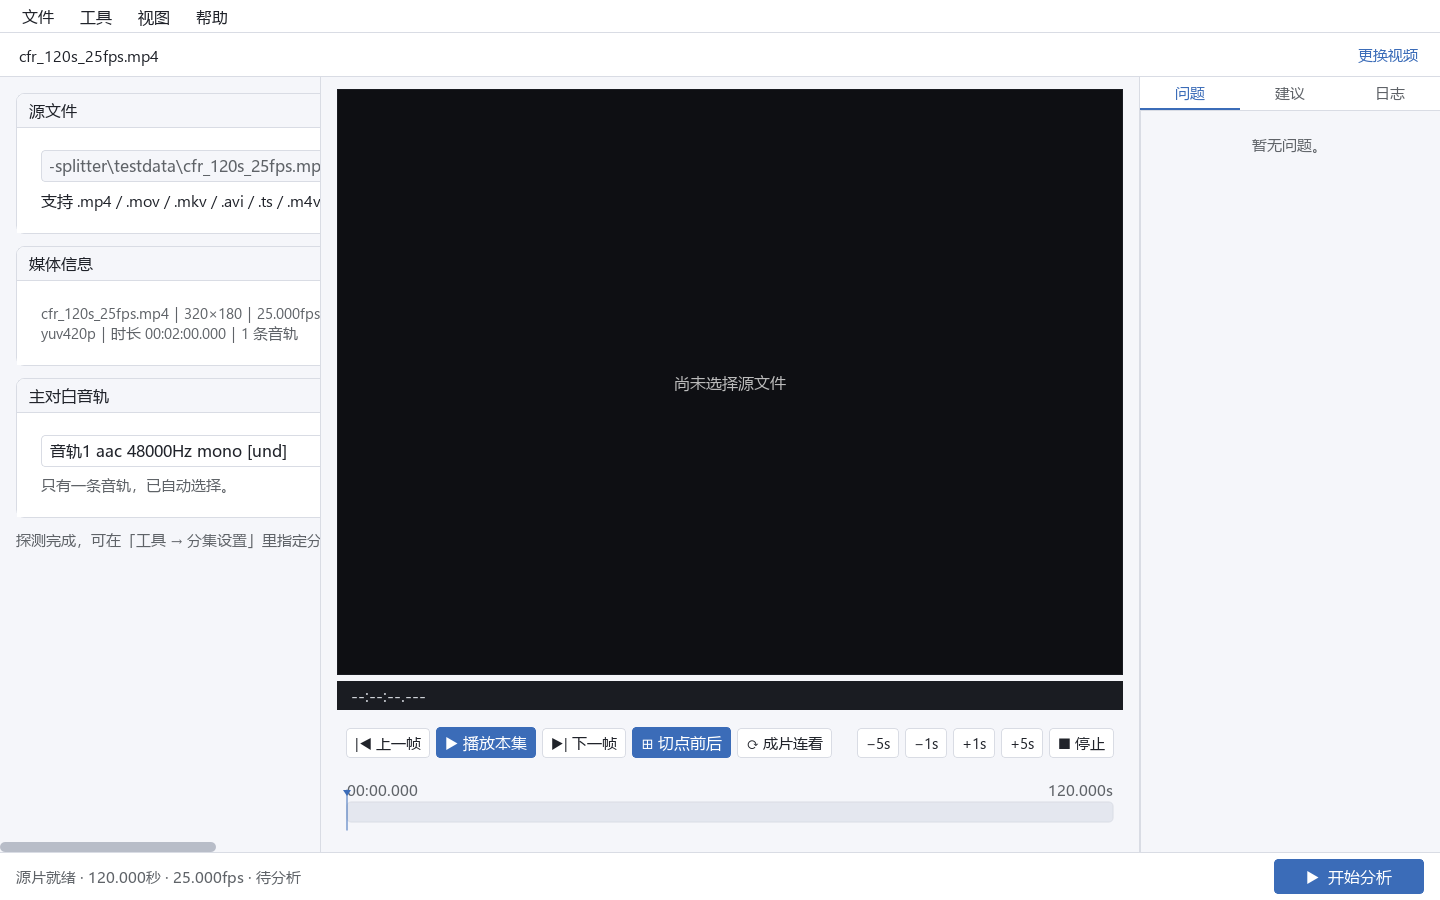
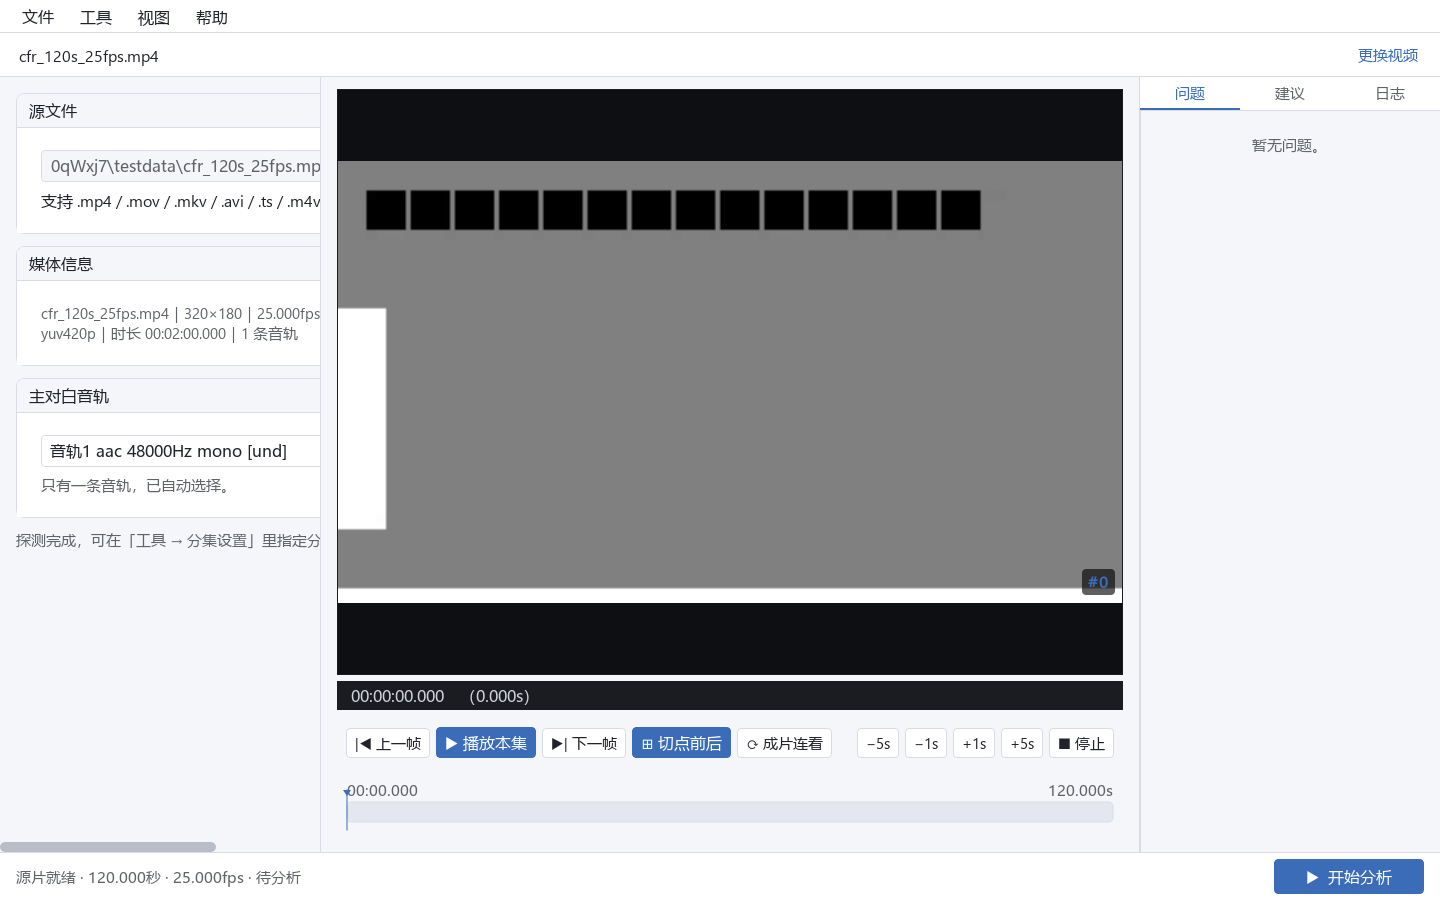
fix(gui): 导入后预览不出图，绑定片源时立即解出第一帧
用户报告：选好视频后画面仍写着「尚未选择源文件」，看起来像没选上。
根因是 set_project 绑定媒体时没有任何地方解码首帧——取图只发生在用户主动
seek/播放时，于是导入明明成功（顶栏有文件名、底栏"源片就绪"），画面区最大的
那块文字却停在占位文案。

- 新片源：播放头归零并立刻解出第一帧；同一片源重刷（锁切点、确认审核）不重复解码
- 只有音轨的素材显示"源文件没有视频轨"，而不是误报"解码失败"
- 回归测试 TestImportPreview：去掉修复即失败，报的就是那句占位文案
- 重新生成 02-工作台-素材就绪（浅色 / 深色）截图，作为修复后的证据

diff --git a/app/gui/widgets/stage_view.py b/app/gui/widgets/stage_view.py
@@ -41,6 +41,8 @@ class StageView(QWidget):
         self.position = Fraction(0)
         self.current_episode = 1
         self._stitch_queue: list[tuple] = []
+        # 已绑定到解码器的源片（用于区分"换了片源"与"同一片源重刷方案"）
+        self._bound_source: str | None = None
 
         self.preview = MediaPreview()
         # 中栏是自适应宽度，预览给一个能看清切点画面的最小高度
@@ -82,6 +84,7 @@ class StageView(QWidget):
         if selected_episode is not None:
             self.current_episode = selected_episode
         if media is None:
+            self._bound_source = None
             self.preview.clear("尚未选择源文件")
             self.timeline.set_project(None, None, {}, None)
             return
@@ -93,6 +96,20 @@ class StageView(QWidget):
             media, self.state.current_plan, self.state.exported, self.current_episode
         )
         self.timeline.set_playhead(self.position)
+
+        if self._bound_source != str(media.path):
+            # 新片源：播放头归零并立刻解出第一帧。本类之外没有任何地方会在
+            # "刚导入"这一刻取图（只有用户主动 seek 才有画面），不补这一步，
+            # 画面上会一直挂着"尚未选择源文件"——用户明明刚选完视频，看到的
+            # 却是最大的一块"没选文件"，会以为导入失败。
+            self._bound_source = str(media.path)
+            if media.video is None:
+                # 只有音轨的素材没有画面可解，如实说明而不是报"解码失败"
+                self.position = Fraction(0)
+                self.preview.clear("源文件没有视频轨")
+                self.timeline.set_playhead(self.position)
+                return
+            self.goto(Fraction(0))
 
     def refresh_theme(self) -> None:
         """主题切换后自绘控件需要重绘（时间轴静态层带主题色）。"""

diff --git a/tests/test_gui_smoke.py b/tests/test_gui_smoke.py
@@ -377,6 +377,42 @@ class TestProjectPersistence:
 
 
 
+class TestImportPreview:
+    """回归：导入完成后预览必须出图，不能留着占位文案。
+
+    用户报告「选好视频之后画面还写着尚未选择源文件」：绑定媒体时没有任何地方
+    解码首帧（只有用户主动 seek 才有画面），而画面区最大的那块文字正好是这句
+    占位提示——导入明明成功，看起来却像视频没选上。
+    """
+
+    def test_import_decodes_first_frame(self, window, qapp, binaries, assets):
+        window.state.binaries = binaries
+        window.state.reset_media()
+        window.workbench.refresh()
+        assert window.workbench.stage is Stage.EMPTY
+
+        window.workbench.import_pane.probe(str(assets["cfr"]))
+        assert TestProjectPersistence._wait(
+            qapp,
+            lambda: window.workbench.import_pane.worker
+            and not window.workbench.import_pane.worker.isRunning(),
+        ), "探测超时"
+        qapp.processEvents()
+
+        assert window.workbench.stage is Stage.READY
+        preview = window.workbench.stage_view.preview
+        assert preview.view.text() == "", (
+            f"导入后画面仍显示占位文案：{preview.view.text()!r}——"
+            "绑定媒体后应立即解出第一帧"
+        )
+        assert not preview.view.pixmap().isNull(), "导入后预览应显示真实解码帧"
+        assert window.workbench.stage_view.position == 0, "新片源的播放头应归零"
+
+        # 同一片源重刷（方案改动、锁切点都会走 set_project）不得把画面清回占位
+        window.workbench.refresh()
+        assert preview.view.text() == "" and not preview.view.pixmap().isNull()
+
+
 class TestWorkers:
     """工作线程的构造参数与信号契约。
 
